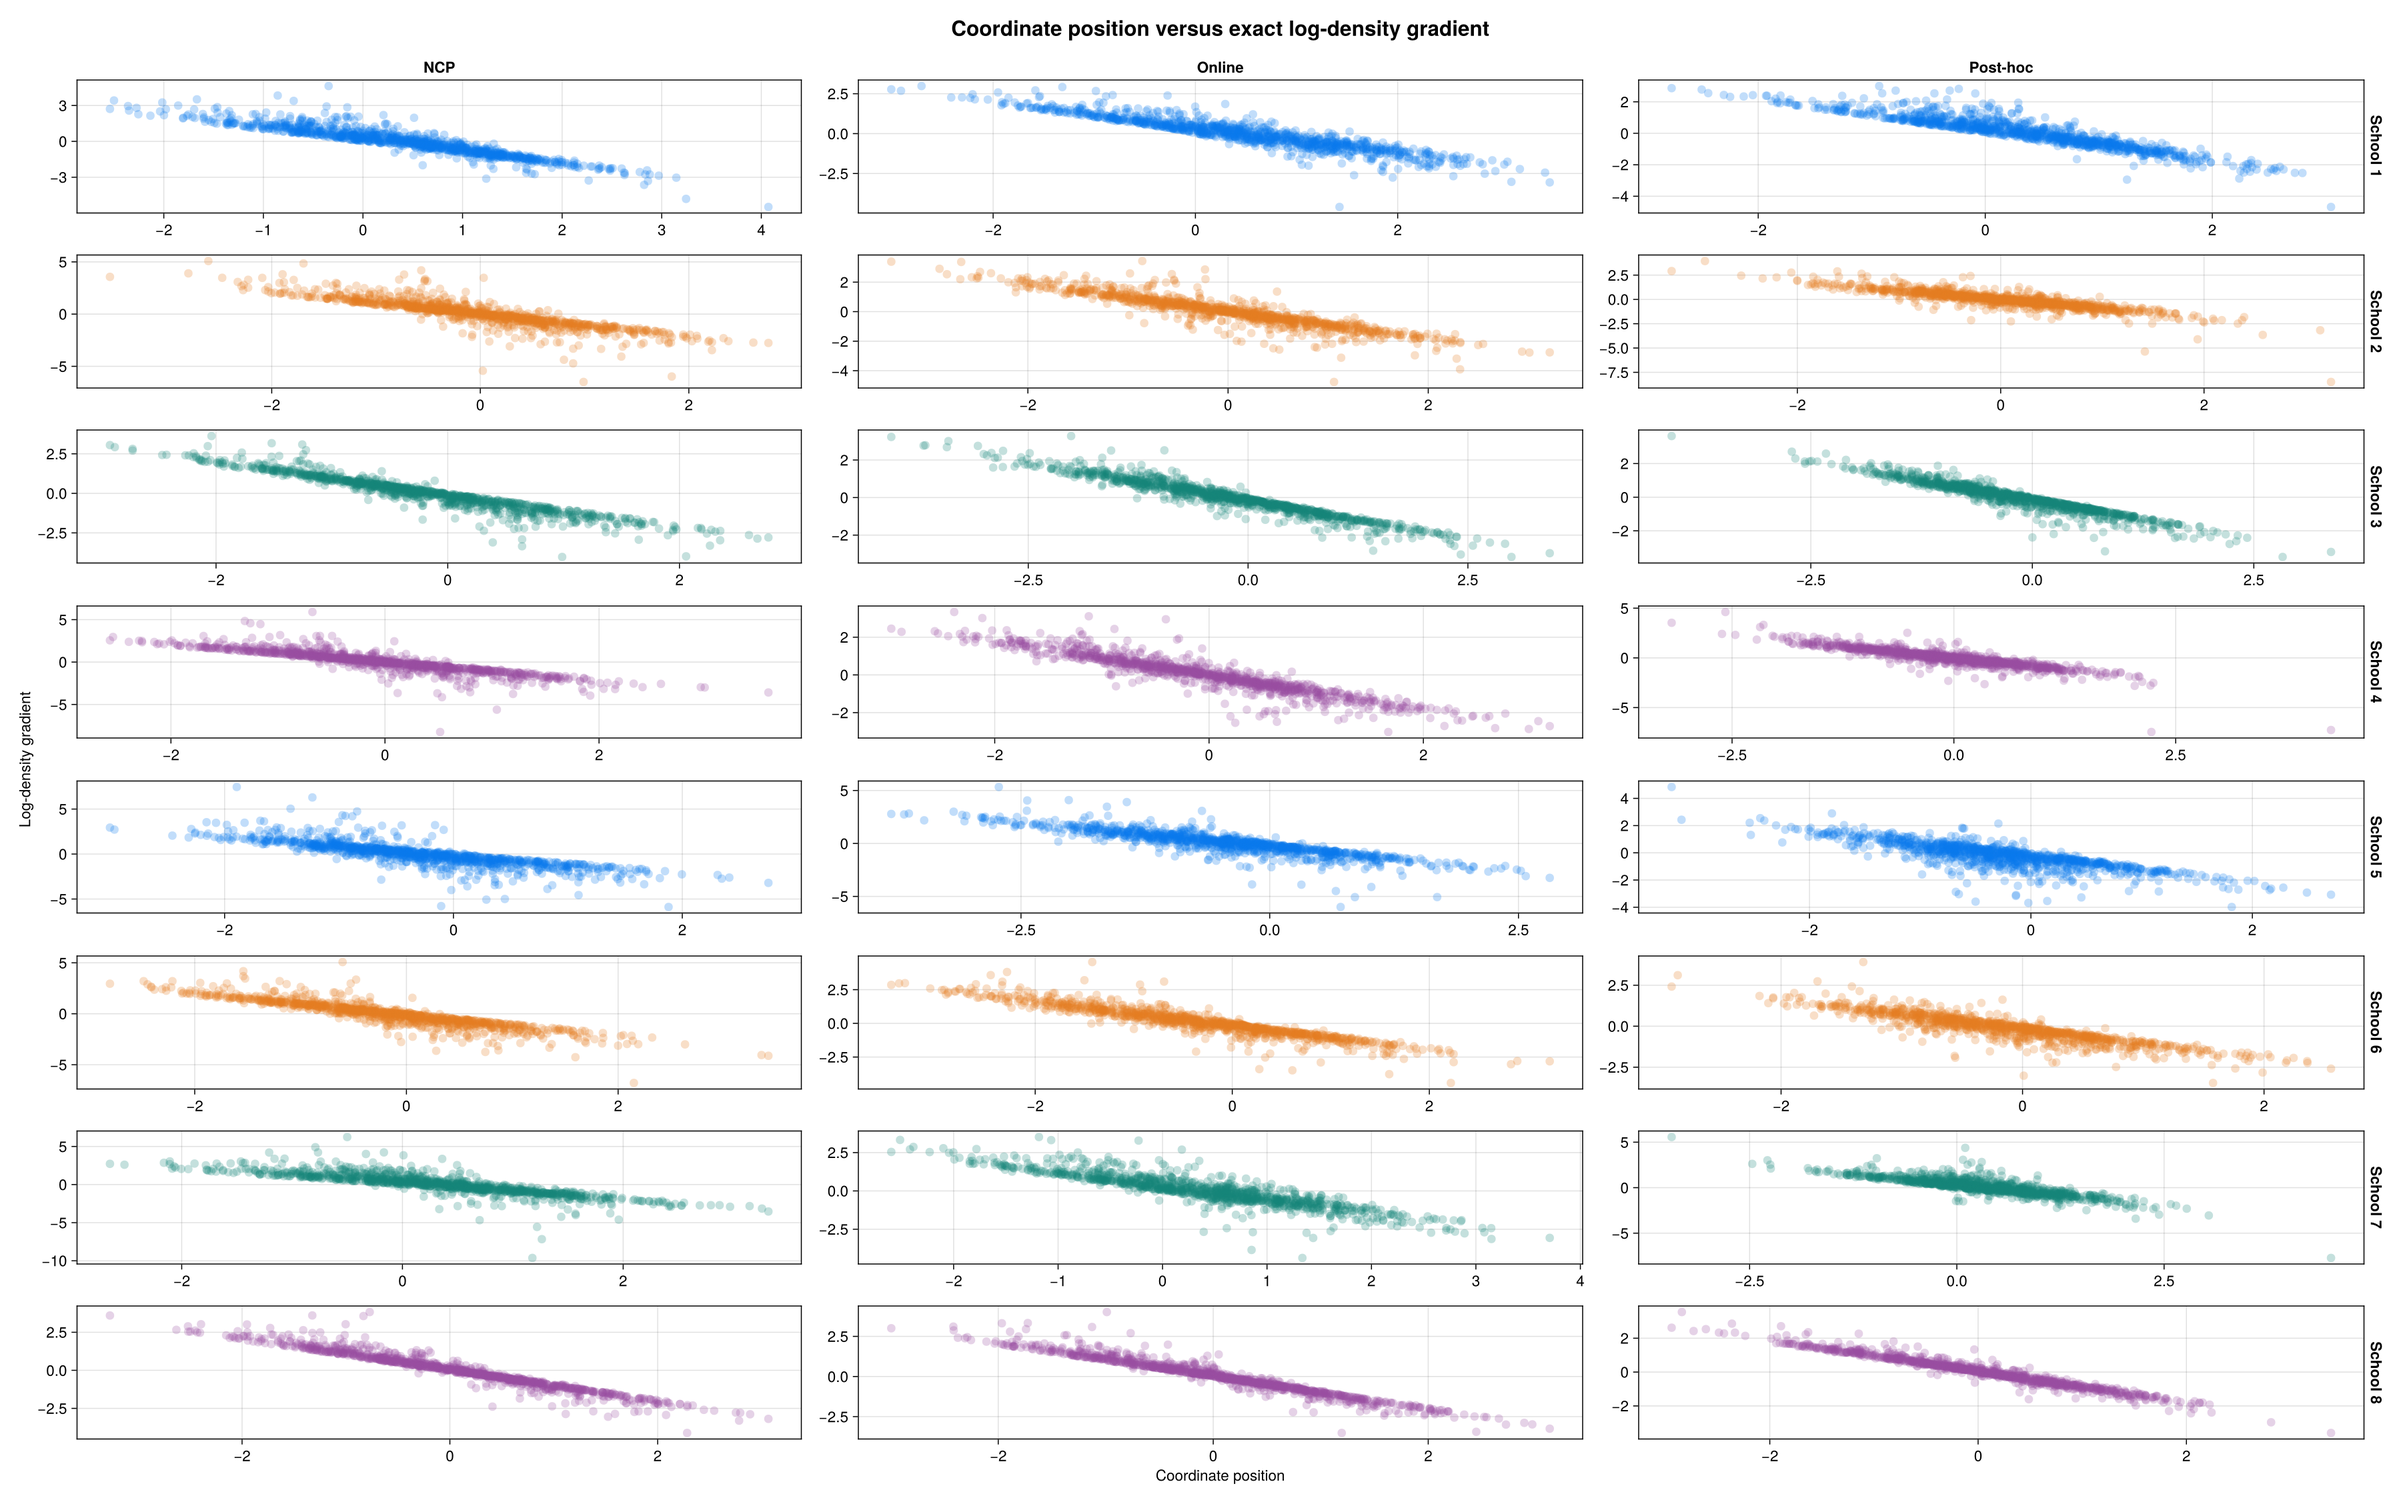
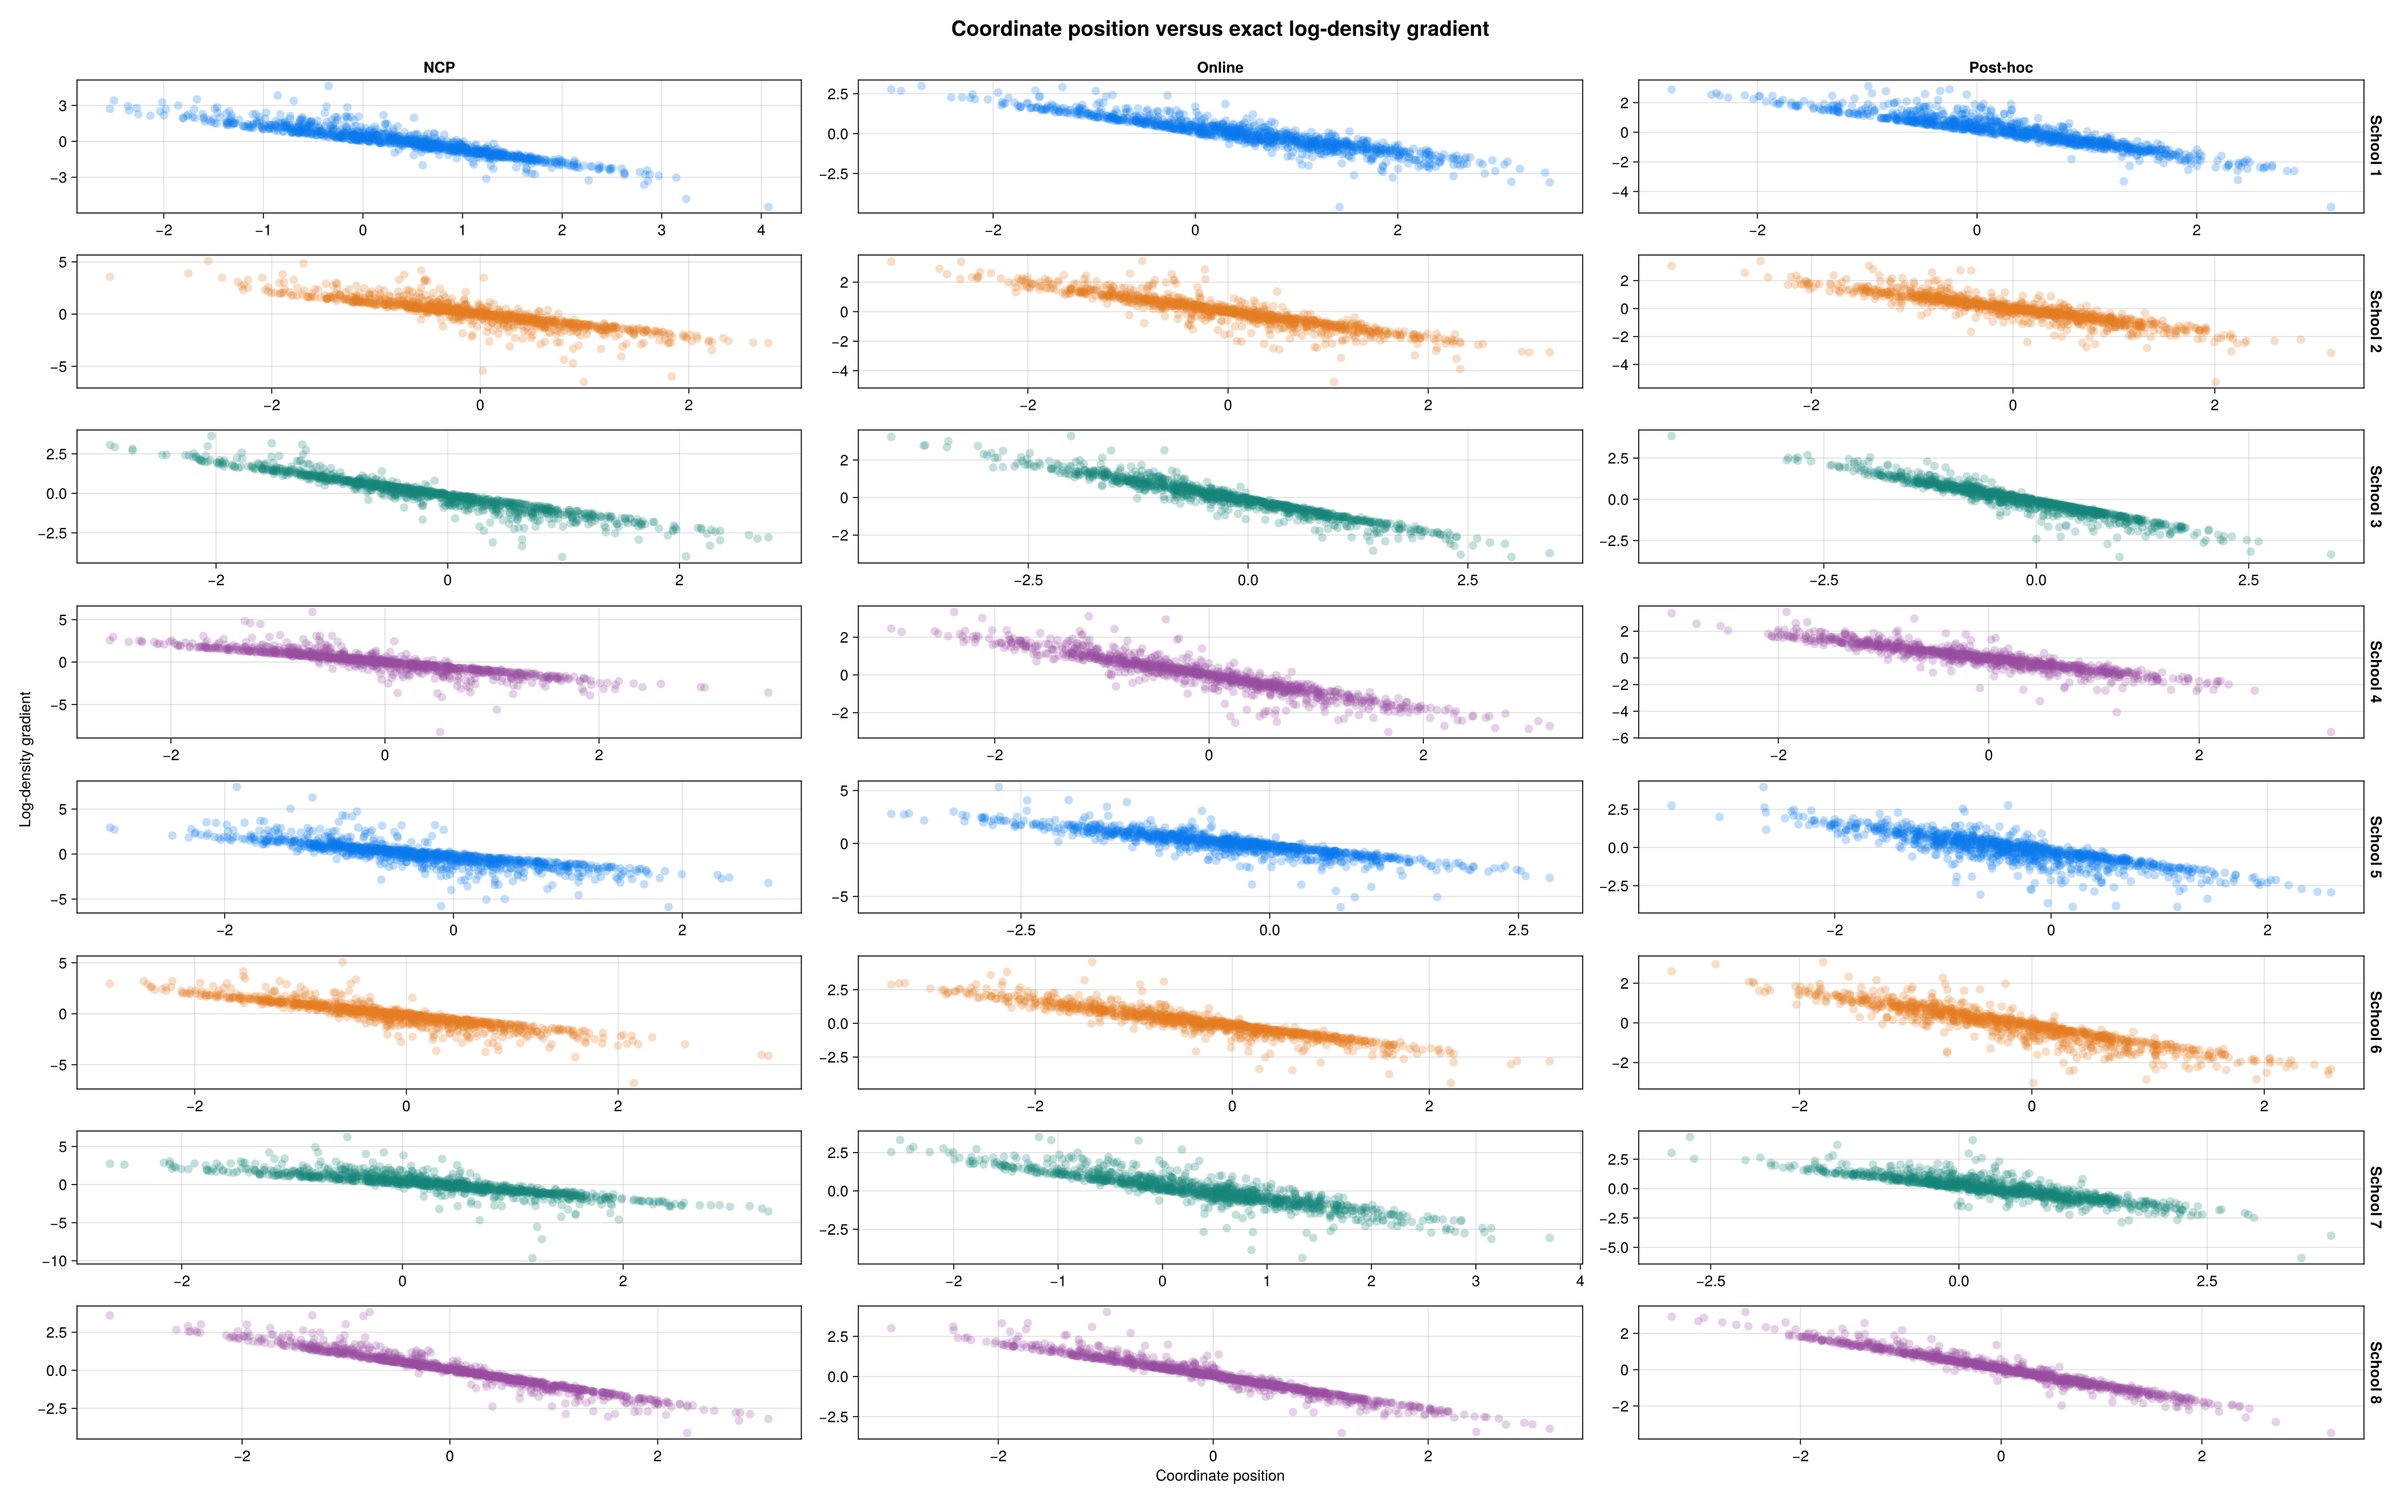
research: correct refit frame mapping to source-u
partial.jls holds source draws u (nonlinear_adapt=false, no back-transform); partial_target.jls holds model z. Post-hoc arm now evaluates the fixed partial problem at actual u with identity display; physical export uses model-frame theta=mu+tau*z with no controls; reexport include is portable. validate: Post-hoc rows must equal BOTH raw u and tau^c*z (dual-binary), physical asserted cross-binary, plus an explicit refit-gradient vs partial-problem sample (7/7). 584005 plot-binding tests pass. Page: nonlinear_adapt=false explicit with .jls frame note, per-arm gradient provenance, no grid-rounding claim. Figures re-rendered from saved data only.

diff --git a/docs/src/eight-schools-centering.md b/docs/src/eight-schools-centering.md
@@ -198,8 +198,10 @@ values agree exactly.
 ![Offline and online selected centering](assets/adaptive-eight-schools/selected_centeredness.png)
 
 The online run (next section) learns `0.1` for schools 1–7 and `0.0` for
-school 8 on its own coarser grid — the same answer up to grid resolution.
-Both selectors agree the funnel wants nearly noncentered coordinates.
+school 8 on its own coarser grid. That is not the offline answer rounded
+to the grid — school 1 selects `0.02` offline but learns `0.1` online,
+school 8 selects `0.06` but learns `0.0`. Both selectors favor
+nearly noncentered coordinates; neither wants the funnel centered.
 
 ## 4. Fit the selected partial model from scratch
 
@@ -209,8 +211,15 @@ coordinates, not the posterior sample retained from the second fit.
 
 ```julia
 refit = WarmupHMC.adaptive_warmup_mcmc(
-    Xoshiro(1), selected_partial_problem; n_draws=10_000, monitor_ess=true)
+    Xoshiro(1), selected_partial_problem; n_draws=10_000, monitor_ess=true,
+    nonlinear_adapt=false)
 ```
+
+Adaptation is off here on purpose: the coordinates are already chosen, so
+the refit must not re-adapt them. Saved draws keep both frames:
+`partial.jls` holds the source draws `u`, `partial_target.jls` the same
+draws back-transformed to model coordinates. The refit diagnostics below
+are computed in model coordinates, like the other two fits.
 
 ![Post-hoc selected partial coordinates](assets/adaptive-eight-schools/post-hoc_scatter.png)
 
@@ -300,15 +309,20 @@ centeredness learned online.
 Here the columns genuinely change the displayed coordinates, left to
 right: NCP pilot, online fit in its learned geometry, and post-hoc partial
 refit. Each facet shows **1,000 evenly selected draws from its own fit** —
-pilot, refit, or online run — with transparent points; the underlying
-gradient evaluations and loss calculations use all 10,000
-draws per fit. The points are plotted directly, without smoothing or
-aggregation. Gradient axes are independent between facets, because
-reparameterization changes their units as well as the coordinate units.
+pilot, refit, or online run — with transparent points. The plotted
+gradients are evaluated on all 10,000 draws of each fit against its own
+target; the candidate-loss replay is a separate common-pilot calculation
+(plotted above), not a per-fit loss. The points are plotted directly,
+without smoothing or aggregation. Gradient axes are independent between
+facets, because reparameterization changes their units as well as the
+coordinate units.
 
-The NCP and online gradients come from the actual BRM-generated Stan
-target; the refit gradients come from its fixed selected-partial problem.
-At fixed hyperparameters, the NCP-to-partial display transport is
+Provenance per column: NCP gradients are differentiated directly from the
+BRM-generated Stan target at the pilot draws; refit gradients are
+differentiated directly from the fixed selected-partial problem at the
+source draws `u` (no transport — the draws already live in the displayed
+geometry); online gradients are differentiated from the Stan target at the
+online draws and transported once into the learned geometry with
 `g_c = tau^(-c)*g_z`. The
 change-of-coordinate Jacobian is constant with respect to this school
 coordinate; its hyperparameter derivatives are not being plotted here.
